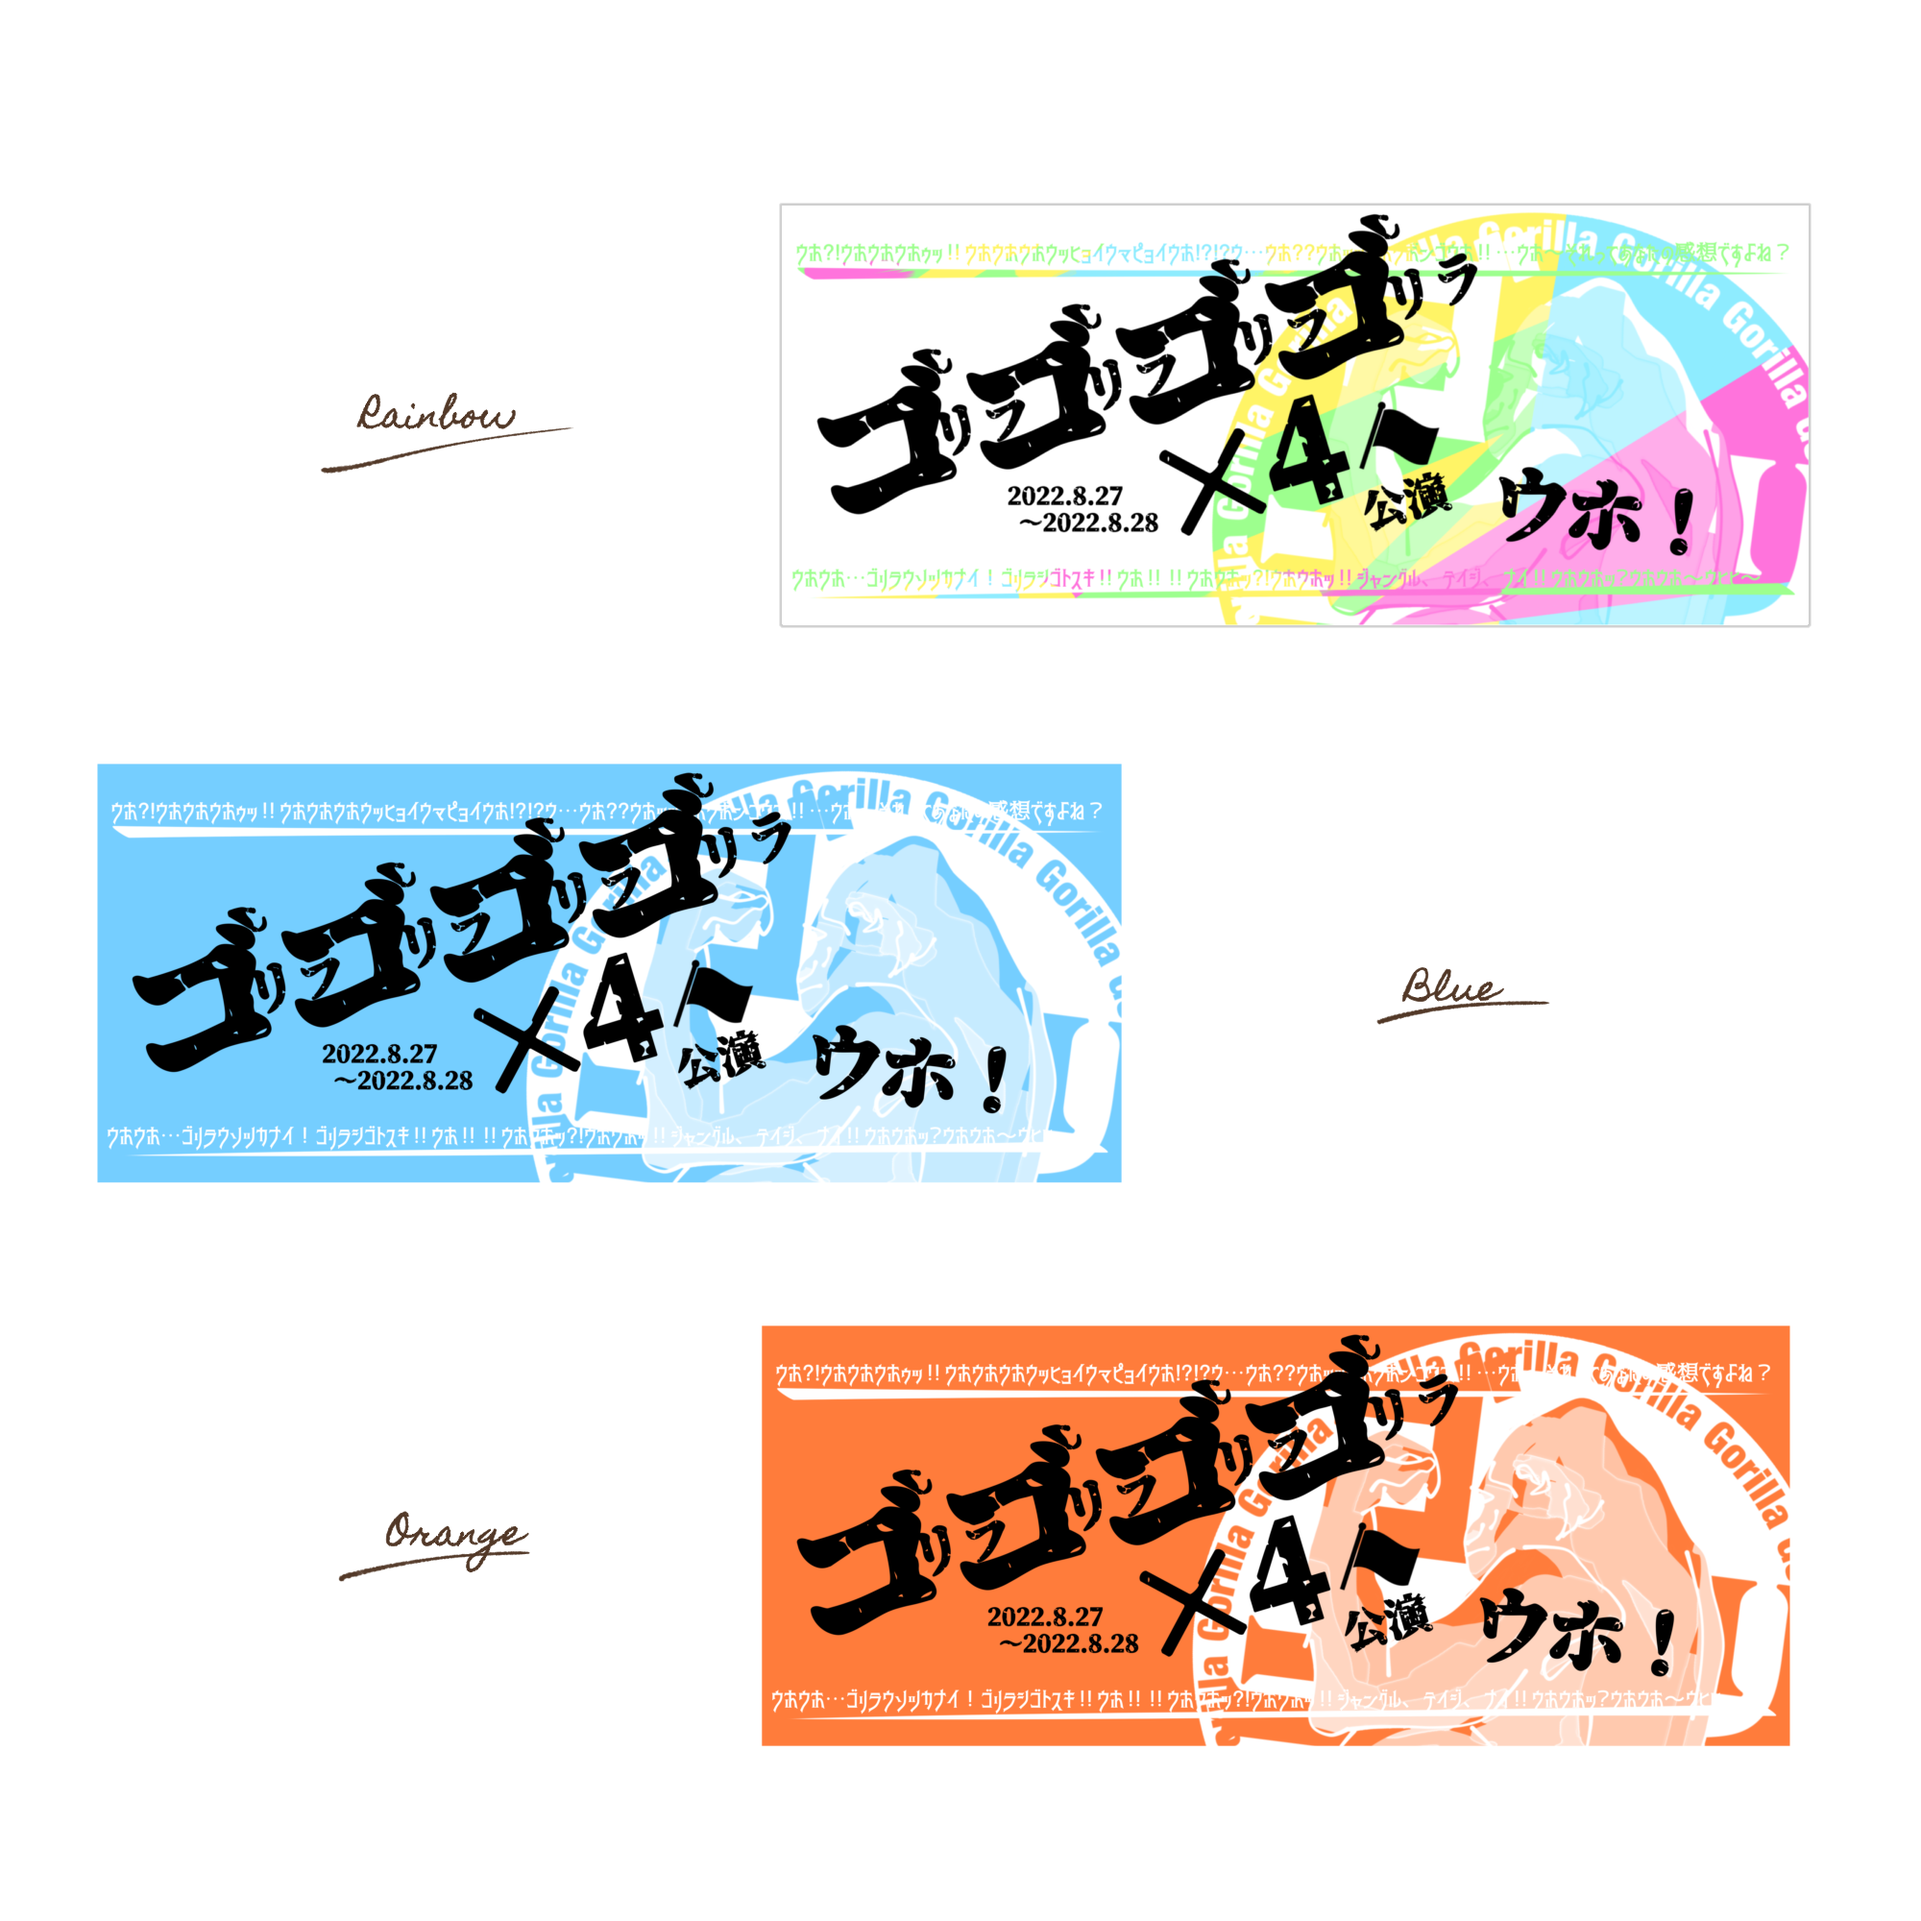
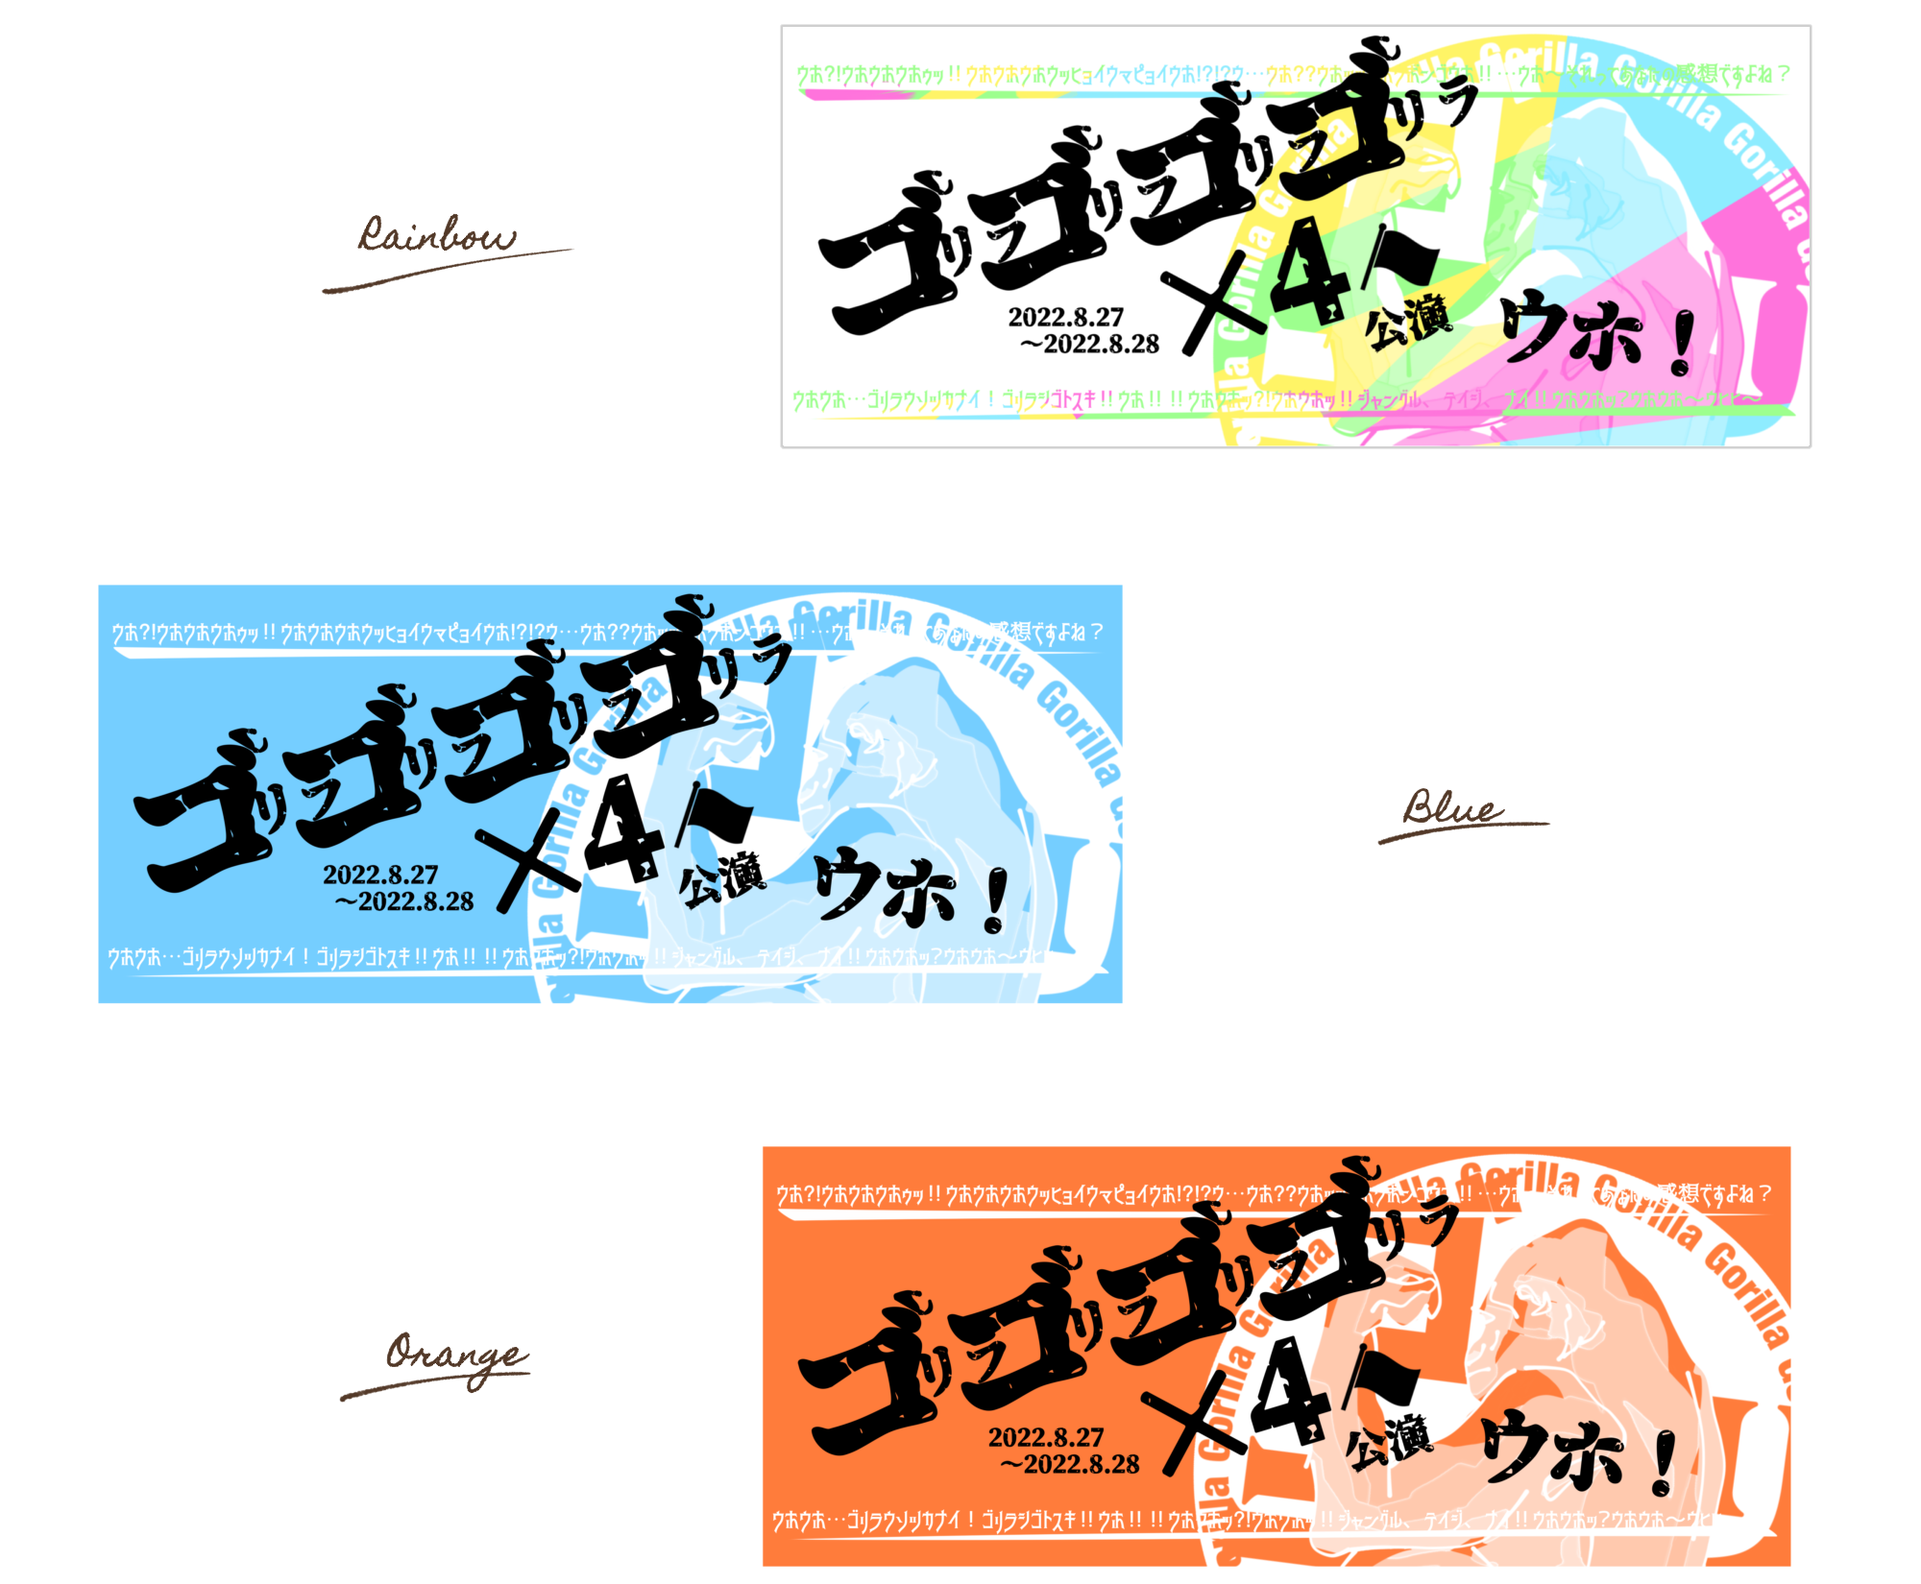
マージン調整

diff --git a/goods/index.html b/goods/index.html
@@ -37,7 +37,9 @@
       </div>
   <h6>本ページの画像は製作中確定稿を参考に作成されました。概ね同じ商品となる見込みですが、異なる部分が生じる可能性をご承知ください。</h6>
       <br>
-      <a class="btn-lg btn-dark"  href="https://docs.google.com/forms/d/e/1FAIpQLSfv3hhYqris3aRsJQE1fTRHGGzRZT63KFsM5JriQaJ0aKSmnQ/viewform?usp=sf_link" target="_blank">🦍予約フォーム🦍</a>
+      <div class="mb-5">
+        <a class="btn-lg btn-dark"  href="https://docs.google.com/forms/d/e/1FAIpQLSfv3hhYqris3aRsJQE1fTRHGGzRZT63KFsM5JriQaJ0aKSmnQ/viewform?usp=sf_link" target="_blank">🦍予約フォーム🦍</a>
+      </div>
       <div class="scroll-box">
         <p class="scroll js-scroll tshirt-scroll"><a href="">SCROLL</a></p>
       </div>

diff --git a/goods/css/style.css b/goods/css/style.css
@@ -21,7 +21,7 @@ a, a:hover {
 }
 
 .scroll-box {
-  margin: 3vh 0;
+  margin: 0;
 }
 
 /*スクロールボタンの指定*/
@@ -216,7 +216,7 @@ h2 {
 .media-29101 img {
   -o-object-fit: contain;
      object-fit: contain;
-  max-height: 45vh;
+  max-height: 40vh;
 }
 @media screen and (min-width: 1000px) {
   .media-29101 img {

diff --git a/goods/scss/style.css b/goods/scss/style.css
@@ -21,7 +21,7 @@ a, a:hover {
 }
 
 .scroll-box {
-  margin: 3vh 0;
+  margin: 0;
 }
 
 /*スクロールボタンの指定*/
@@ -216,7 +216,7 @@ h2 {
 .media-29101 img {
   -o-object-fit: contain;
      object-fit: contain;
-  max-height: 45vh;
+  max-height: 40vh;
 }
 @media screen and (min-width: 1000px) {
   .media-29101 img {

diff --git a/goods/scss/style.scss b/goods/scss/style.scss
@@ -40,7 +40,7 @@ a {
 }
 
 .scroll-box {
-	margin: 3vh 0;
+	margin: 0;
 }
 
 /*スクロールボタンの指定*/
